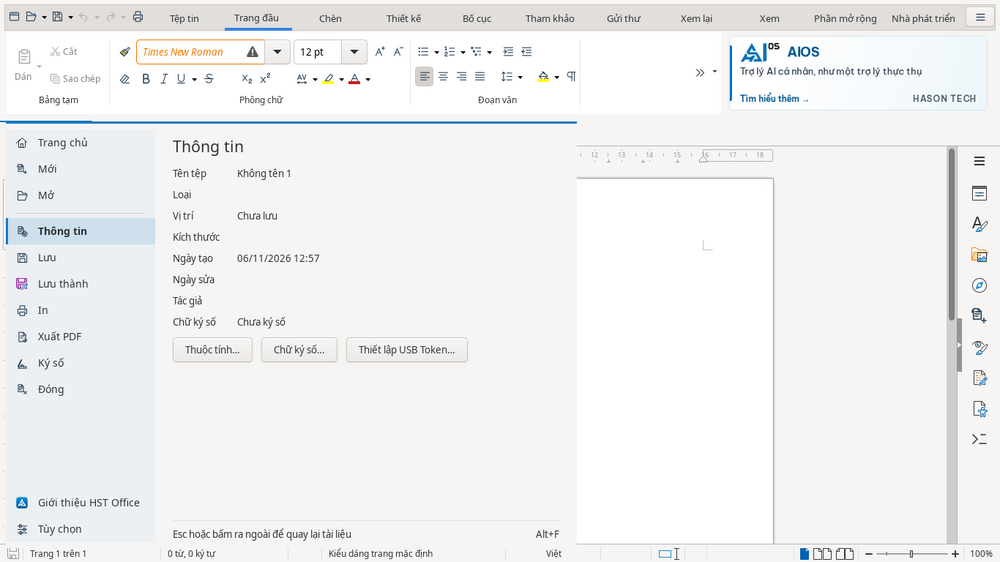
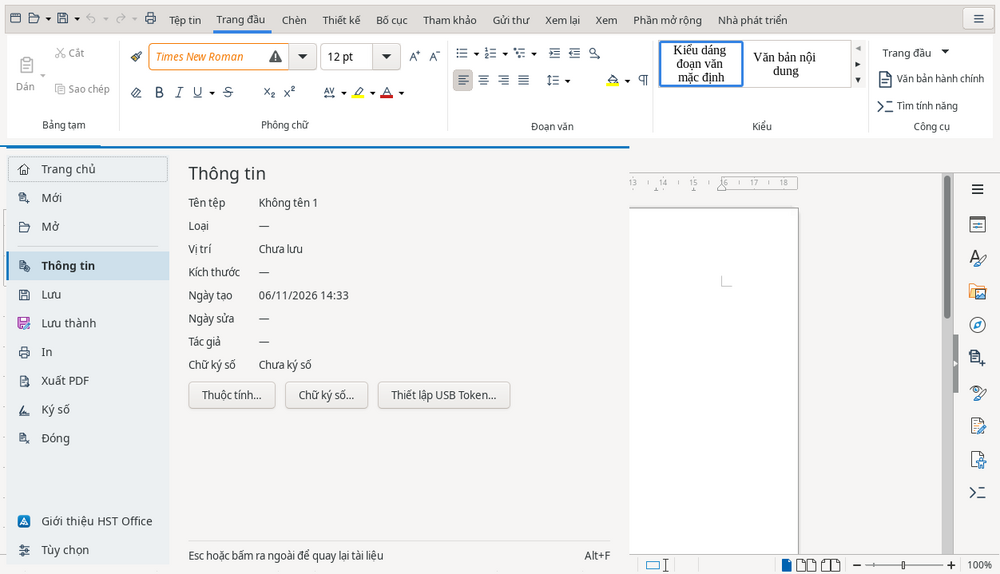
docs(help): show the File panel's Info page with dashes for empty values

diff --git a/extensions/hst-vietnamese-tools/help/giao-dien.html b/extensions/hst-vietnamese-tools/help/giao-dien.html
@@ -63,7 +63,7 @@
 </ul>
 <h2 id="bang-tep-tin">Bảng Tệp tin</h2>
 <p>Bấm thẻ <span class="menu">Tệp tin</span> trên dải lệnh hoặc nhấn <span class="keys"><kbd>Alt</kbd>+<kbd>F</kbd></span> (Windows, Linux) để mở bảng Tệp tin. Bảng thả xuống ngay dưới dải lệnh, trong một cửa sổ riêng: dải lệnh và tài liệu vẫn hiện như cũ. Nhấn <span class="keys"><kbd>Esc</kbd></span>, bấm chuột ra ngoài bảng hoặc nhấn lại <span class="keys"><kbd>Alt</kbd>+<kbd>F</kbd></span> để đóng bảng; chọn một lệnh trong bảng cũng đóng bảng.</p>
-<figure><img src="images/file-panel.png" alt="HST Writer với bảng Tệp tin mở ngay dưới dải lệnh. Cột trái có Trang chủ, Mới, Mở, Thông tin, Lưu, Lưu thành, In, Xuất PDF, Ký số, Đóng, Giới thiệu HST Office và Tùy chọn; bên phải là trang Thông tin với các nút Thuộc tính, Chữ ký số và Thiết lập USB Token; dải lệnh và tài liệu vẫn hiện." loading="lazy" width="1000" height="562"><figcaption>Bảng <span class="menu">Tệp tin</span> mở ở trang <span class="menu">Thông tin</span>; dải lệnh và tài liệu vẫn hiện.</figcaption></figure>
+<figure><img src="images/file-panel.png" alt="HST Writer với bảng Tệp tin mở ngay dưới dải lệnh. Cột trái có Trang chủ, Mới, Mở, Thông tin, Lưu, Lưu thành, In, Xuất PDF, Ký số, Đóng, Giới thiệu HST Office và Tùy chọn; bên phải là trang Thông tin với các nút Thuộc tính, Chữ ký số và Thiết lập USB Token; dải lệnh và tài liệu vẫn hiện." loading="lazy" width="1000" height="574"><figcaption>Bảng <span class="menu">Tệp tin</span> mở ở trang <span class="menu">Thông tin</span>; dải lệnh và tài liệu vẫn hiện.</figcaption></figure>
 <ul>
   <li><span class="menu">Trang chủ</span>: tạo tài liệu mới hoặc <span class="menu">Văn bản hành chính (NĐ 30)</span>, mở tệp <span class="menu">Gần đây</span> và <span class="menu">Đã ghim</span>. Bấm chuột phải vào một tệp để ghim hoặc xóa khỏi danh sách.</li>
   <li><span class="menu">Mới</span>: danh sách gọn các mẫu của ứng dụng, nhấp đúp một mẫu để tạo tài liệu mới; <span class="menu">Quản lý mẫu</span> mở hộp thoại Mẫu đầy đủ, có ảnh xem trước.</li>
